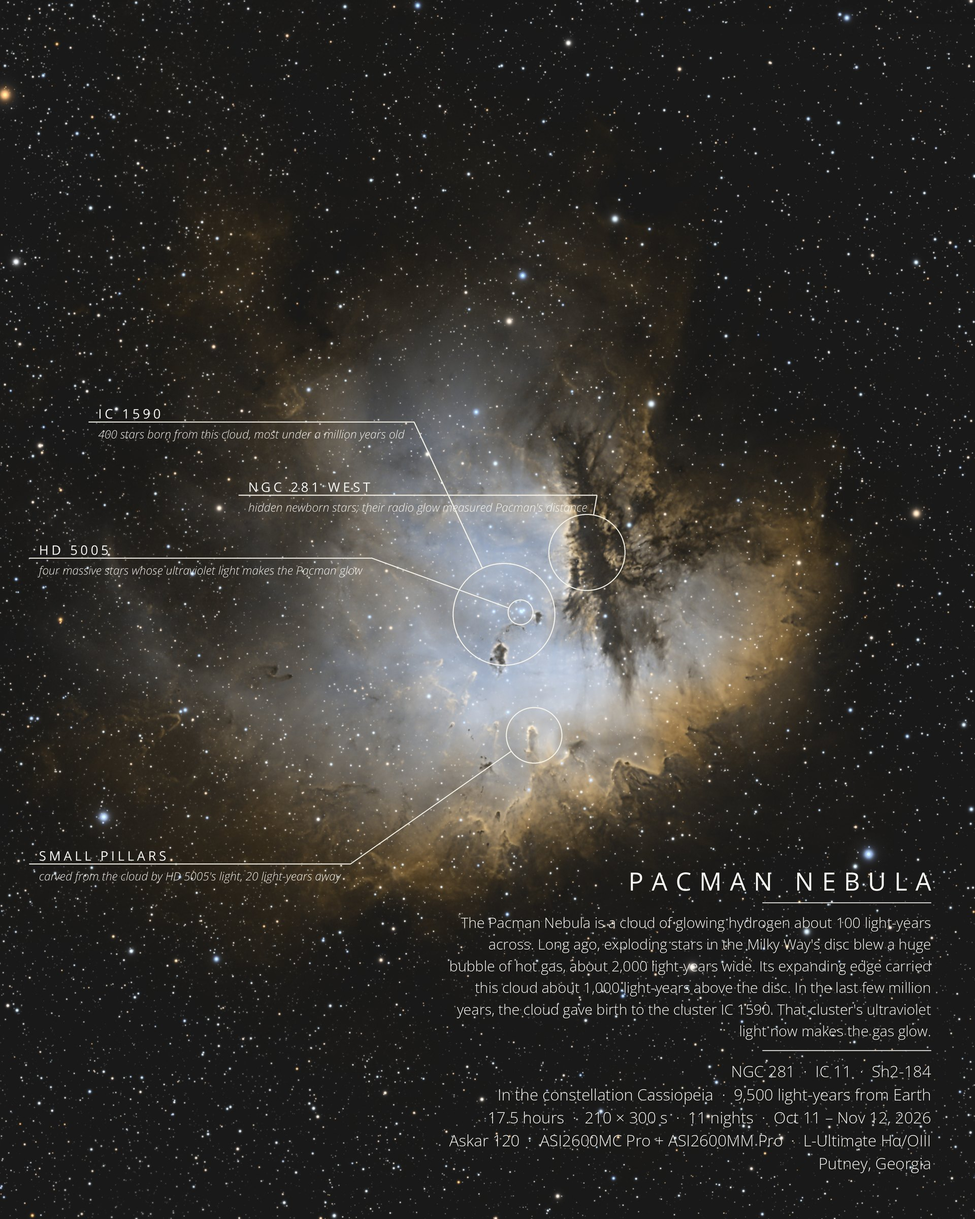
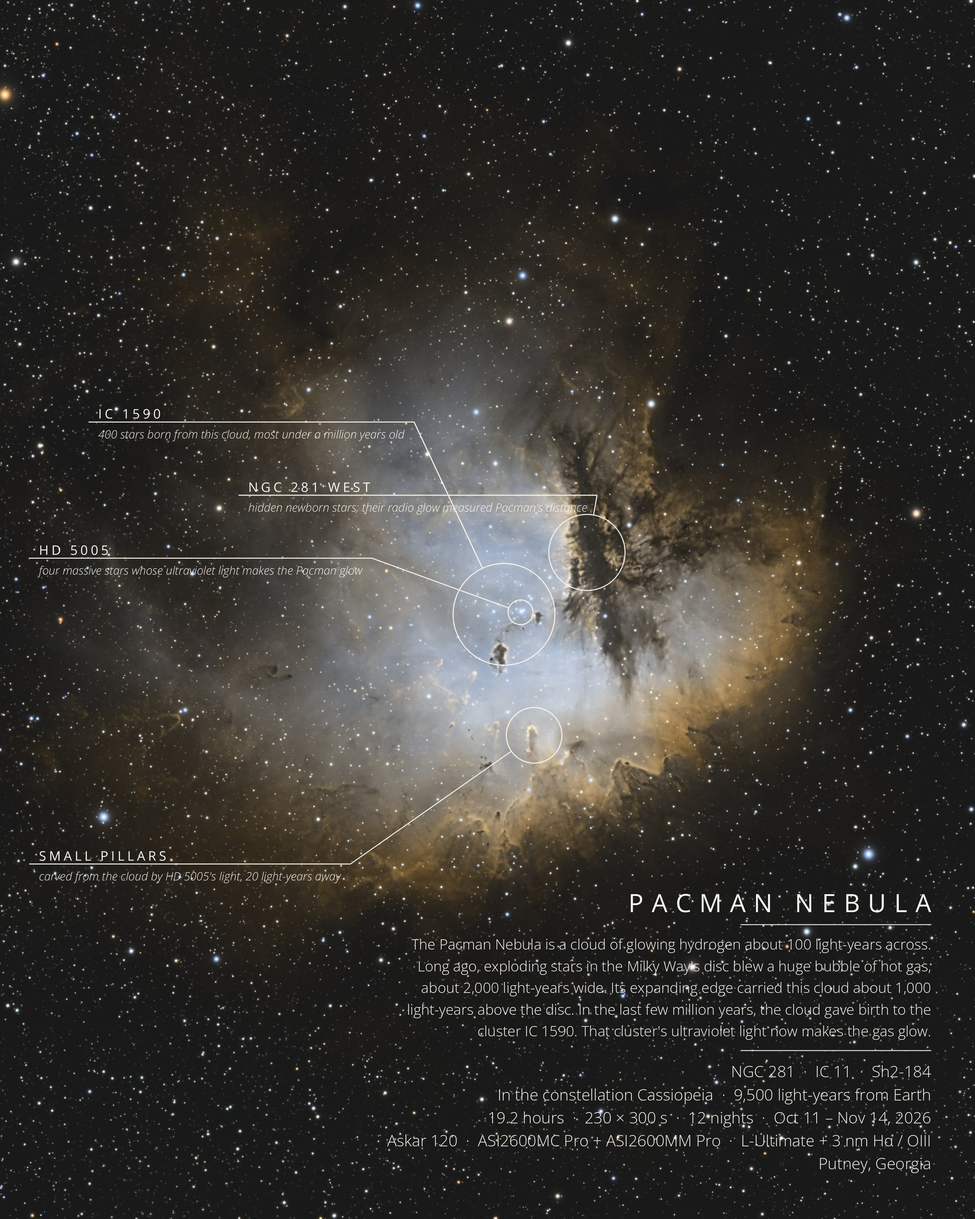
Gallery update 2026-11-15 04:03

diff --git a/t/pacman.html b/t/pacman.html
@@ -20,7 +20,7 @@
       <ul class="facts">
         <li>In the constellation Cassiopeia · 9,500 light-years from Earth</li>
         <li>17.5 hours · 210 × 300 s · 11 nights · Oct 11 – Nov 12, 2026</li>
-        <li>Askar 120 · ASI2600MC Pro + ASI2600MM Pro · L-Ultimate Hα/OIII</li>
+        <li>Askar 120 · ASI2600MC Pro + ASI2600MM Pro · L-Ultimate + 3 nm Hα / OIII</li>
       </ul>
       <button class="toggle">Show labels</button>
     </div>
